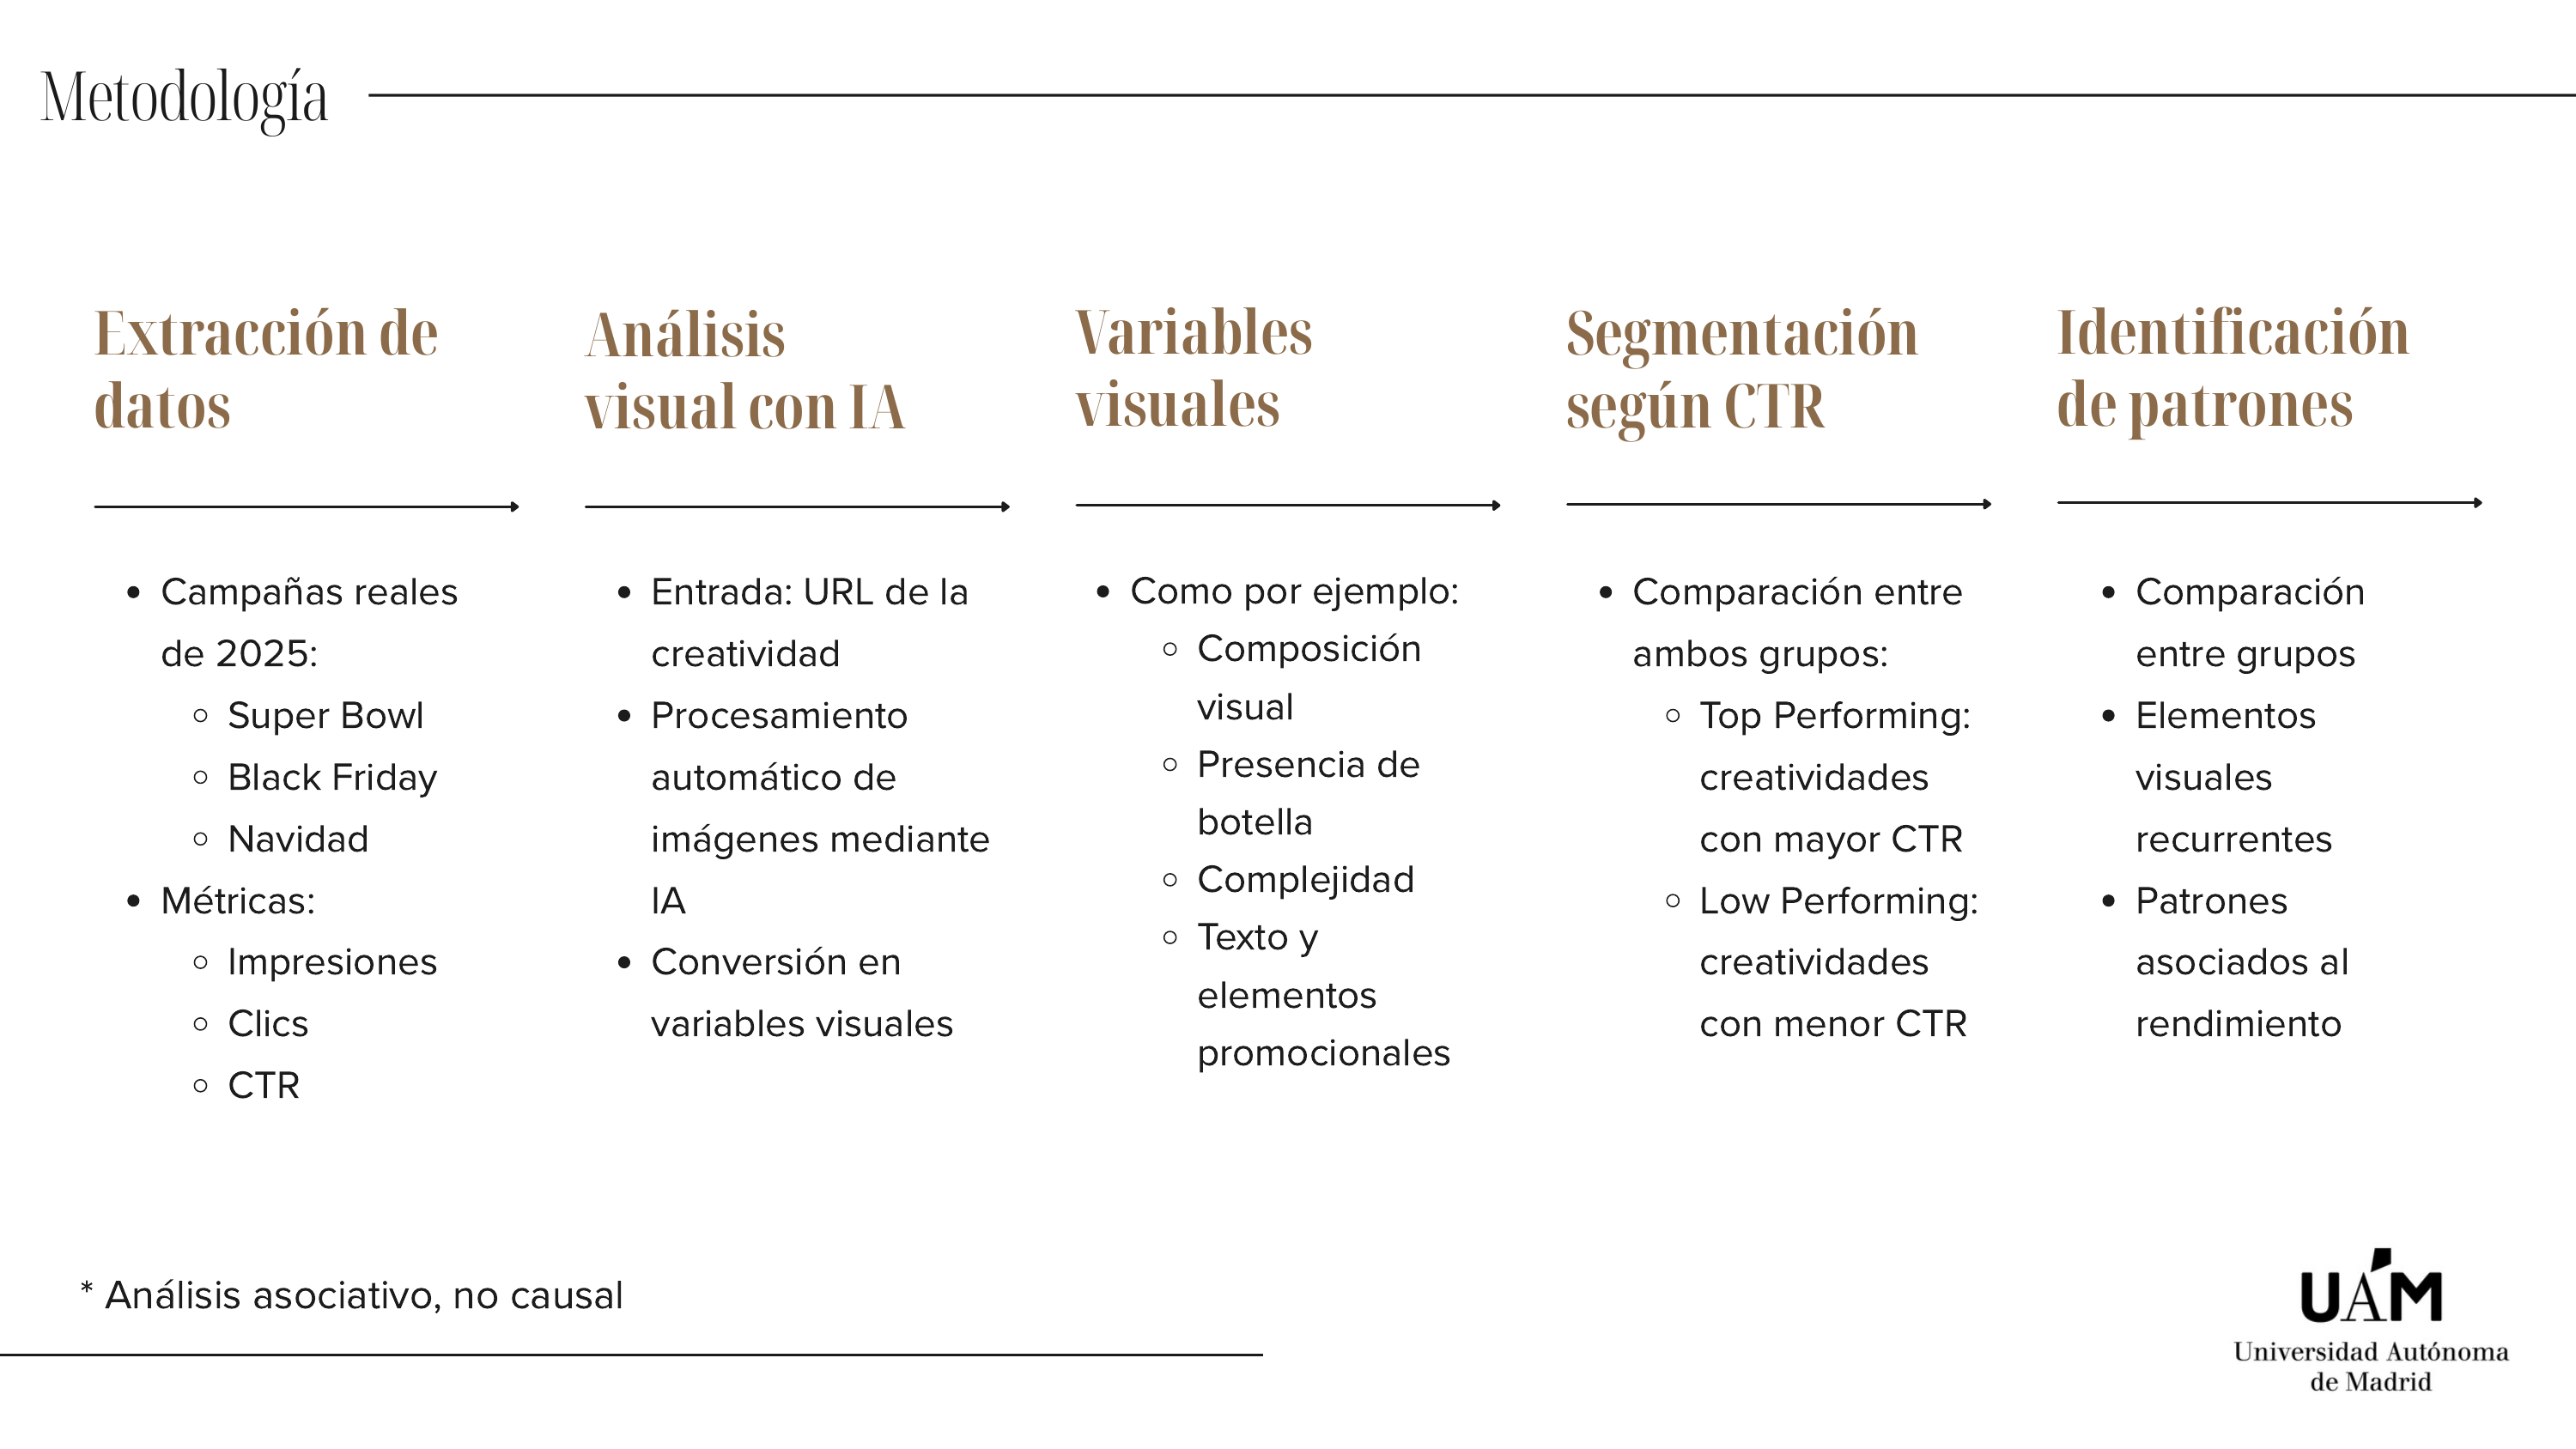
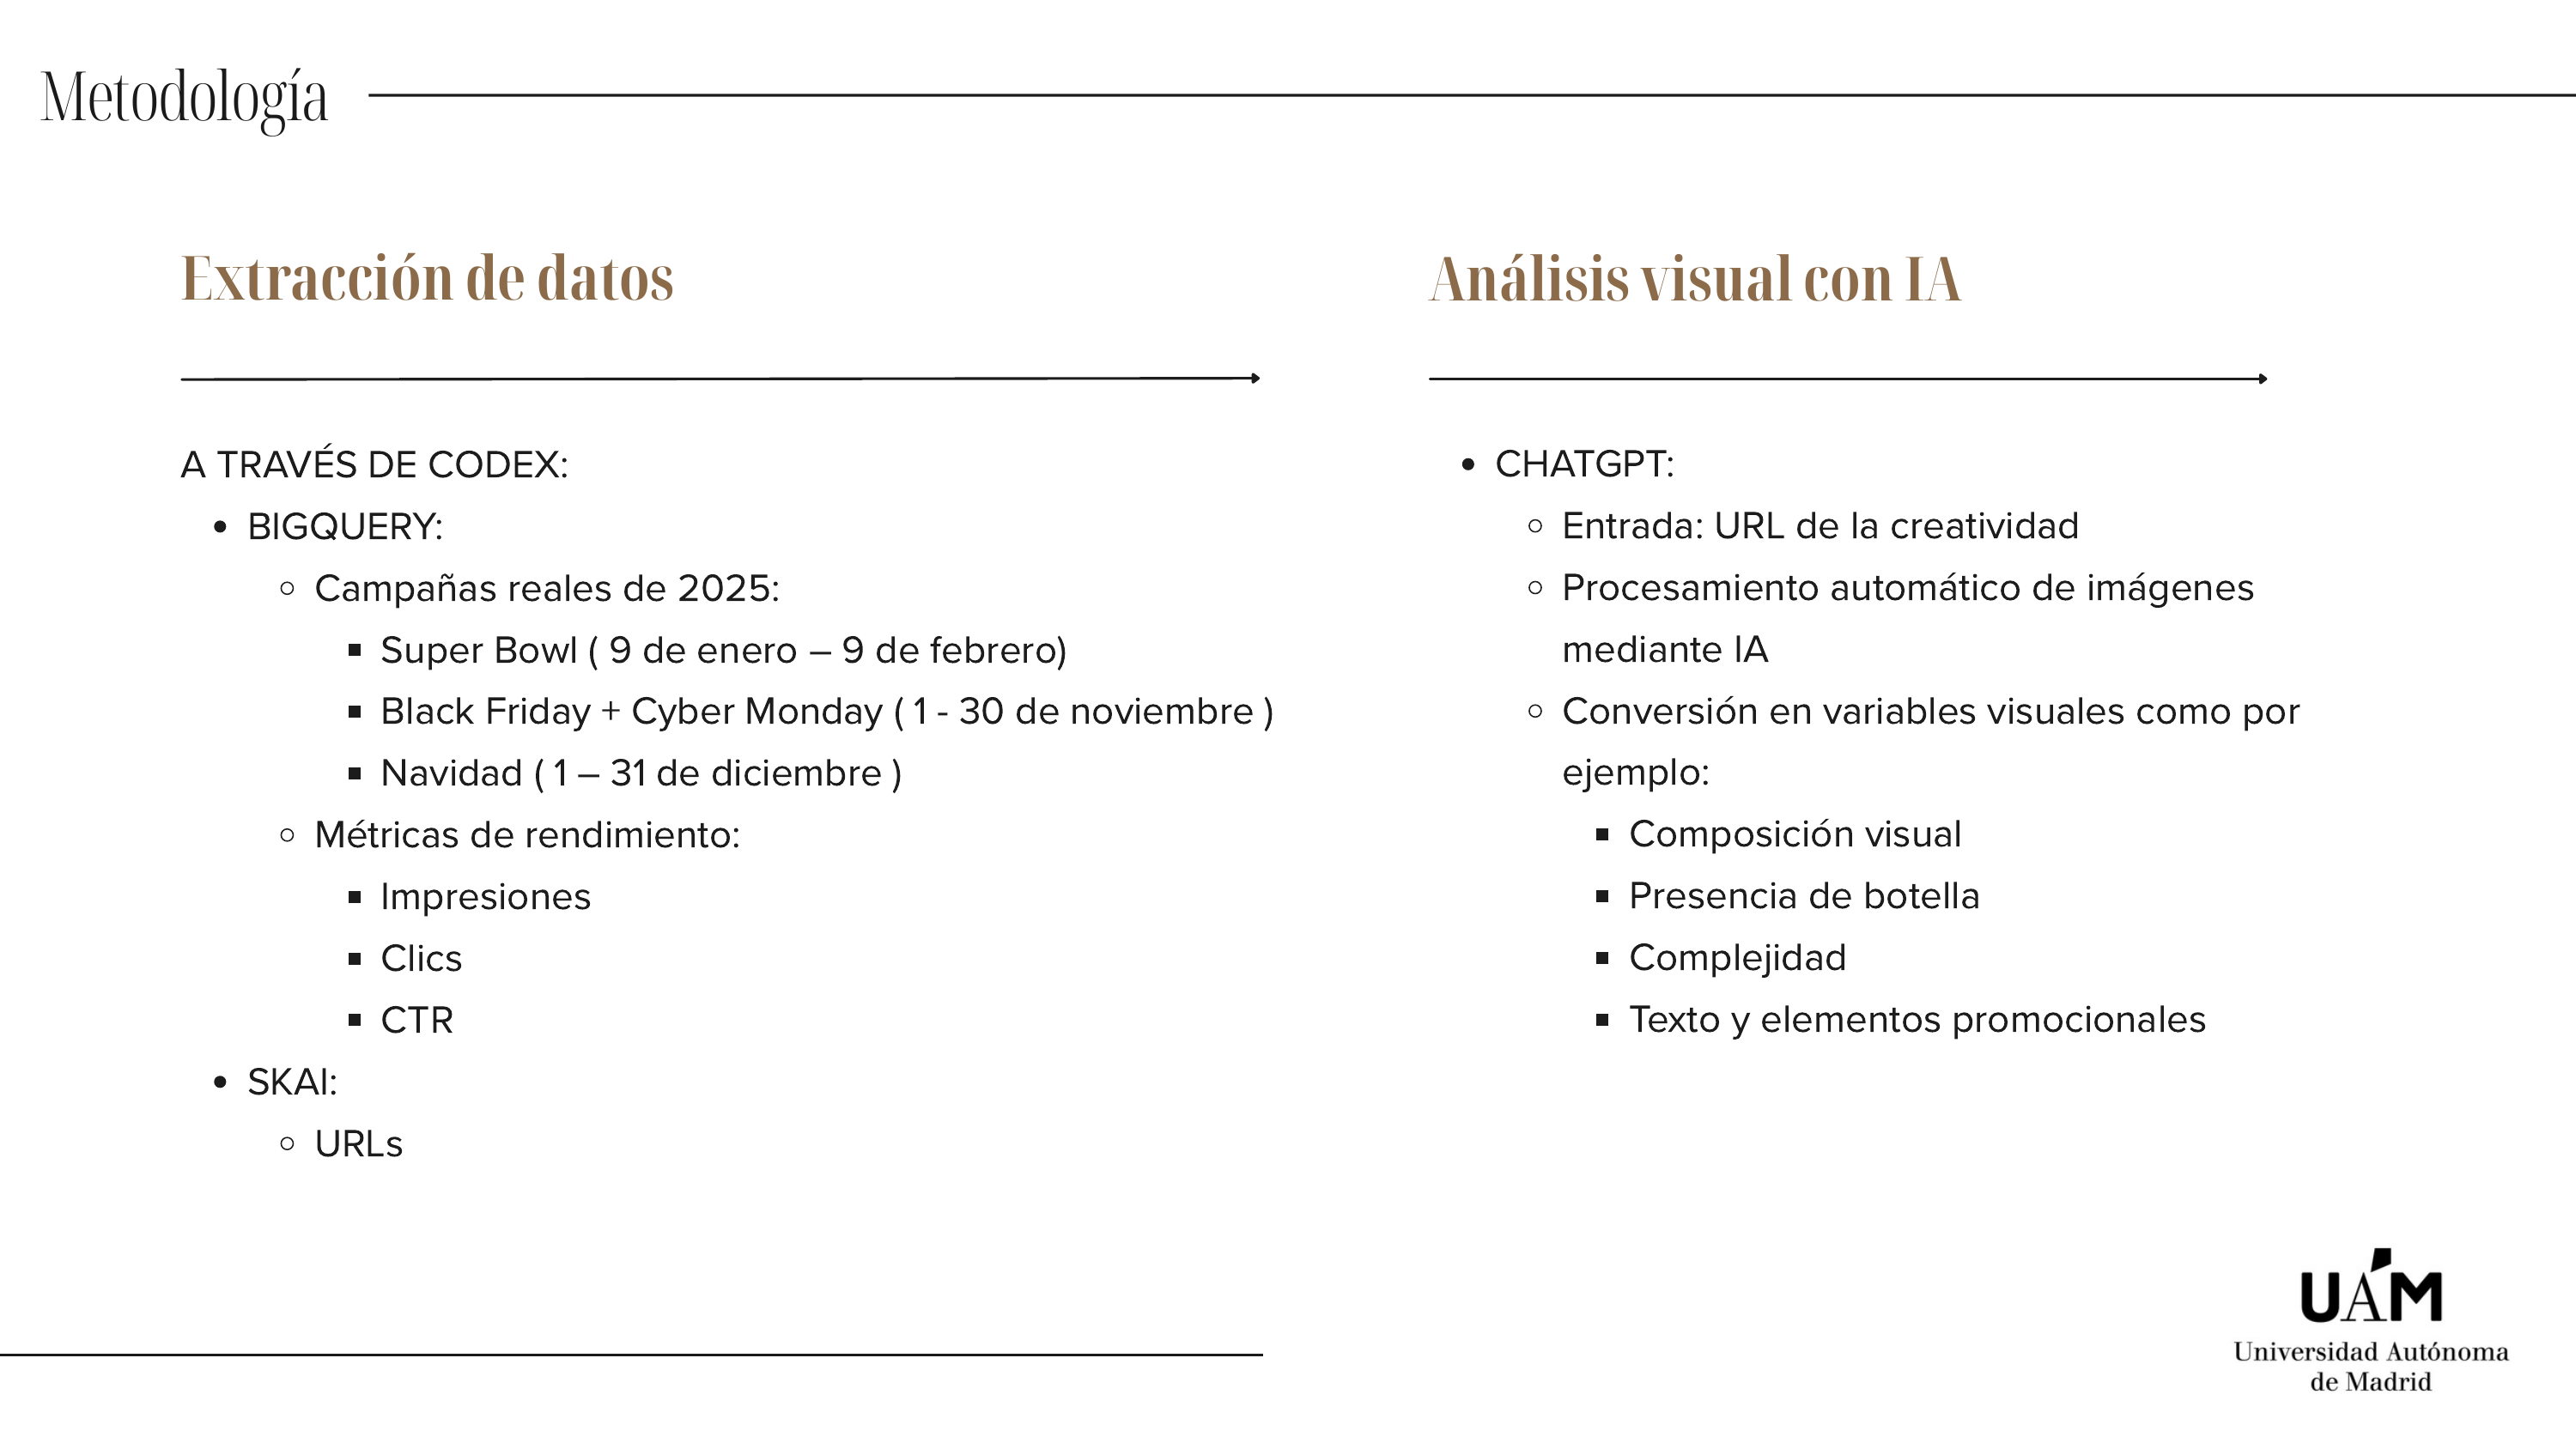
Align TFG portfolio with updated defense presentation

diff --git a/README.md b/README.md
@@ -30,6 +30,8 @@ Creative performance is often evaluated manually or through subjective marketing
 
 > Are there visual patterns associated with advertising performance in digital spirits campaigns?
 
+![Research question slide](assets/slides/research-question.png)
+
 The project focused on turning creative assets into analyzable variables such as:
 
 - product presence,
@@ -57,6 +59,15 @@ flowchart LR
     H --> I["Marketing recommendations"]
 ```
 
+The updated presentation separates the methodology into two layers:
+
+| Layer | What happened |
+| --- | --- |
+| Data extraction through Codex | BigQuery was used to work with real 2025 campaign performance data, while Skai provided the creative image URLs needed for visual analysis |
+| Visual analysis through ChatGPT | Image URLs were processed with AI and converted into structured variables such as composition, bottle presence, complexity, promotional text, and visual hierarchy |
+
+![Analysis methodology slide](assets/slides/analysis-methodology.png)
+
 ## Data Pipeline
 
 The project combined three technical workflows:
@@ -71,11 +82,11 @@ The project combined three technical workflows:
 
 The analysis focused on three high-activity commercial moments in the US market:
 
-| Period | Why it matters |
-| --- | --- |
-| Super Bowl | High attention, brand competition, strong creative pressure |
-| Black Friday / Cyber Monday | Promotion-heavy environment with commercial overlays |
-| Christmas | Seasonal messaging, gifting cues, and premium visual codes |
+| Period | Date window used in the project | Why it matters |
+| --- | --- | --- |
+| Super Bowl | January 9 - February 9, 2025 | High attention, brand competition, strong creative pressure |
+| Black Friday / Cyber Monday | November 1 - November 30, 2025 | Promotion-heavy environment with commercial overlays |
+| Christmas | December 1 - December 31, 2025 | Seasonal messaging, gifting cues, and premium visual codes |
 
 ## Dataset Logic
 
@@ -107,6 +118,17 @@ Examples of extracted visual variables:
 | Commercial messaging | `retail_overlay_present`, `promotion_badge_present`, `cta_text_present` |
 | Context | human presence, seasonality, premium codes |
 
+## AI Analysis Iterations
+
+The analysis was structured in two AI-assisted iterations:
+
+| Iteration | Input | Output |
+| --- | --- | --- |
+| 1. Within-group analysis | Enriched dataset for one group, either Top Performing or Low Performing | Document identifying the most and least recurrent visual variables within that group |
+| 2. Cross-group comparison | The two previous analysis documents | Document comparing the differences between Top and Low Performing creatives |
+
+This design made the analysis more traceable: each conclusion could be connected back to a defined group, a defined visual variable set, and a documented comparison step.
+
 ## Key Findings
 
 | Top Performing creatives tended to show | Low Performing creatives tended to show |
@@ -115,6 +137,19 @@ Examples of extracted visual variables:
 | Clearer visual hierarchy | More competing visual elements |
 | Cleaner composition | Higher visual saturation |
 | More dynamic layouts | More centered and conventional compositions |
+
+The public repository intentionally summarizes these results in text rather than publishing the original creative examples. The updated presentation contains real brand visuals used for academic defense, but they are excluded here to keep the GitHub version focused on process rather than proprietary campaign assets.
+
+## Limitations
+
+![Limitations slide](assets/slides/limitations.png)
+
+The project should be read as an exploratory creative analytics methodology, not as a causal performance model:
+
+- Performance was evaluated through CTR only.
+- Campaign objective, budget, audience, placement, and other media variables were outside the final model.
+- The available creative images came from platform catalog-style formats, which can constrain the visual interpretation.
+- Results identify associations and hypotheses for creative learning, not definitive proof that a specific visual element caused performance.
 
 ## Main Conclusion
 
@@ -160,9 +195,12 @@ Read more in [docs/conclusions.md](docs/conclusions.md).
 |-- README.md
 |-- assets/
 |   `-- slides/
-|       |-- title.png
+|       |-- analysis-methodology.png
+|       |-- conclusions.png
+|       |-- limitations.png
 |       |-- methodology.png
-|       `-- conclusions.png
+|       |-- research-question.png
+|       |-- title.png
 `-- docs/
     |-- conclusions.md
     `-- methodology.md
@@ -174,4 +212,4 @@ Read more in [docs/conclusions.md](docs/conclusions.md).
 
 ## Notes
 
-This repository is a public portfolio explanation of the project. It does not include private datasets, credentials, raw campaign exports, proprietary image URLs, or confidential brand-level results.
+This repository is a public portfolio explanation of the project. It does not include private datasets, credentials, raw campaign exports, proprietary image URLs, original creative examples, or confidential brand-level results.

diff --git a/docs/methodology.md b/docs/methodology.md
@@ -8,11 +8,25 @@ The project aimed to identify visual characteristics associated with higher or l
 
 The analysis was exploratory and associative, not causal.
 
+The guiding question was:
+
+> Are there visual patterns associated with advertising performance?
+
 ## 2. Data Sources
 
 - Campaign performance data: impressions, clicks, CTR, campaign metadata, country, dates.
 - Skai API enrichment: image URLs and creative metadata linked by ad identifier.
 - AI visual classification: structured variables generated from creative image URLs.
+
+The updated defense presentation makes the campaign scope explicit:
+
+| Commercial period | Date window |
+| --- | --- |
+| Super Bowl | January 9 - February 9, 2025 |
+| Black Friday + Cyber Monday | November 1 - November 30, 2025 |
+| Christmas | December 1 - December 31, 2025 |
+
+The main performance variables were impressions, clicks, and CTR. Skai was used to retrieve the creative URLs required for the visual analysis.
 
 ## 3. Processing Steps
 
@@ -29,17 +43,28 @@ The analysis was exploratory and associative, not causal.
 11. Compare visual patterns across groups and periods.
 12. Validate aggregated metrics against the original source where possible.
 
-## 4. Related Repositories
+## 4. AI Analysis Design
+
+The AI analysis followed two iterations:
+
+1. **Within-group analysis:** each performance group was analyzed separately to identify the most and least recurrent visual characteristics.
+2. **Cross-group comparison:** the resulting analysis documents were compared to identify the clearest differences between Top Performing and Low Performing creatives.
+
+This created a documented chain from raw campaign data to visual variables, then from visual variables to performance-group patterns.
+
+## 5. Related Repositories
 
 - [bigquery-skill](https://github.com/anabelengarciac/bigquery-skill): warehouse exploration and query validation.
 - [spirits-creative-image-enrichment](https://github.com/anabelengarciac/spirits-creative-image-enrichment): image URL enrichment from Skai.
 - [spirits-creative-performance-ai](https://github.com/anabelengarciac/spirits-creative-performance-ai): Skai performance export and quality-check workflow.
 
-## 5. Interpretation
+## 6. Interpretation
 
 The results should be read as exploratory evidence. CTR was used as an operational performance metric, but creative effectiveness may also depend on brand equity, audience, placement, budget, frequency, campaign objective, and market context.
 
-## 6. Main Methodological Contribution
+The updated presentation also highlights a practical limitation: the creative images available from the platform were catalog-style formats. This matters because the available image representation can influence which visual characteristics are observable.
+
+## 7. Main Methodological Contribution
 
 The most important methodological contribution is that the process can be automated and reproduced. Each stage is explicit enough to be rerun for another period, market, or campaign set:
 

diff --git a/docs/conclusions.md b/docs/conclusions.md
@@ -70,7 +70,18 @@ The results should be read as exploratory and associative.
 
 CTR can indicate immediate interaction, but it does not capture every effect of advertising creativity. Creative effectiveness can also depend on audience, placement, frequency, budget, brand equity, campaign objective, and media context.
 
+The updated defense presentation makes two limitations especially explicit:
+
+- the performance analysis relied on CTR rather than a multi-objective campaign model;
+- the available creative images were platform catalog-style images, which limits how much contextual creative interpretation can be extracted from the asset.
+
 Therefore, the project should be understood as a methodology for structured creative learning, not as a causal model.
+
+## 6. Public Portfolio Scope
+
+The GitHub version focuses on the process, not the proprietary creative assets.
+
+The presentation used for academic defense included visual examples of real creatives. Those examples are intentionally not included in this public repository. The repo keeps the methodology, findings, and reproducibility logic while excluding original creative examples, raw campaign exports, and brand-level confidential results.
 
 ## Final Takeaway
 